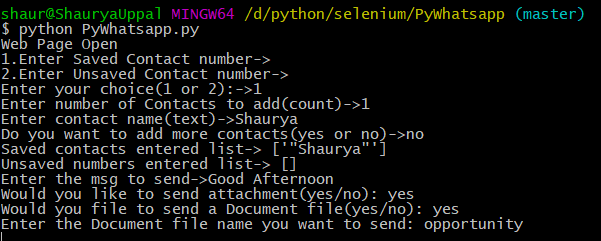
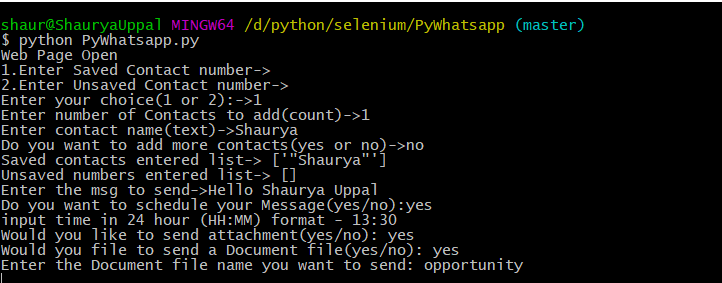
Minor Changes, MAC chromedriver, Input_Type changed

Changed region(s): [[0.0, 0.0, 1.0, 0.9585], [0.0, 0.9876, 0.03, 1.0]]

diff --git a/PyWhatsapp.py b/PyWhatsapp.py
@@ -211,6 +211,9 @@ if __name__ == "__main__":
     # Enter the message you want to send
     input_message()
 
+    # If you want to schedule messages for
+    # a particular timing choose yes
+    # If no choosed instant message would be sent
     isSchedule = input('Do you want to schedule your Message(yes/no):')
     if(isSchedule=="yes"):
         jobtime = input('input time in 24 hour (HH:MM) format - ')
@@ -230,17 +233,16 @@ if __name__ == "__main__":
     # Send message to all Contact List
     # This sender is just for testing purpose to check script working or not.
     # Scheduling works below.
-    
-    #Comment line 221 is case you don't want to test
-    #or have completed the testing part of script.
+    # sender()
+    # Uncomment line 236 is case you want to test the program
 
     if(isSchedule=="yes"):
         schedule.every().day.at(jobtime).do(sender)
     else:
         sender()
 
-    # First send Task Complete
-    print("Completed")
+    # First time message sending Task Complete
+    print("Task Completed")
 
     # Messages are scheduled to send
     # Default schedule to send attachment and greet the personal

diff --git a/README.md b/README.md
@@ -1,53 +1,76 @@
 # PyWhatsapp
 [![made-with-python](https://img.shields.io/badge/Made%20with-Python-1f425f.svg)](https://github.com/shauryauppal/PyWhatsapp)  [![License](https://img.shields.io/github/license/shauryauppal/PyWhatsapp.svg)](https://github.com/shauryauppal/PyWhatsapp/blob/master/LICENSE) [![GitHub stars](https://img.shields.io/github/stars/shauryauppal/PyWhatsapp.svg)](https://github.com/shauryauppal/PyWhatsapp/stargazers)  [![HitCount](http://hits.dwyl.io/shauryauppal/PyWhatsapp.svg)](http://hits.dwyl.io/shauryauppal/PyWhatsapp)
 
-##  Python Automation using Selenium &amp; Scheduling of messages and media
+## Python Automation using Selenium &amp; Scheduling of messages and media
 
 ## Objective:
- Pywhatsapp is used to Automate Whatsapp through Whatsapp web. We can add number of contacts whom we want to send messages or Media attachments ( like Video or Images). Selenium, Autoit and Schedule have been used one from Automation and other for Scheduling messages.
+Pywhatsapp is used to Automate Whatsapp through Whatsapp web. We can
+add number of contacts whom we want to send messages or Media
+attachments ( like Video or Images). Selenium, Autoit and Schedule have
+been used one from Automation and other for Scheduling messages.
 
-------------------
+---
 
 ## Use Case:
- We can schedule Good Morning or Good night messages with a nice Picture at a particular time to our loved ones. We can set reminders. Suppose at 12 o'clock you want to wish your friend happy birthday so schedule your messages and sleep peacefully.
+We can schedule Good Morning or Good night messages with a nice Picture
+at a particular time to our loved ones. We can set reminders. Suppose at
+12 o'clock you want to wish your friend happy birthday so schedule your
+messages and sleep peacefully.
 
----------------------
-## Install
+---
+
+## Installation
 
 >$ pip install -r requirements.txt
 
 OR
 
 >$ pip install selenium
-
+>
 >$ pip install schedule
-
+>
 >$ pip install PyAutoIt
 
-_________________
+---
 
 ### Platform: Windows
-ChromeDriver used: If this versions becomes outdated or gives problem download the latest version from <a href = "http://chromedriver.chromium.org/downloads"> Download Link </a>
+ChromeDriver used: If this versions becomes outdated or gives problem
+download the latest version from <a href =
+"http://chromedriver.chromium.org/downloads"> Download Link </a>
 
-------------------
-### For Sending Attachments you need to Install AutoIt (Optional if you only what to send messages):
+### Platform Mac
+Remove the ChromeDriverused in the repository and install <a href =
+"https://chromedriver.storage.googleapis.com/2.42/chromedriver_mac64.zip">Mac ChromeDrive Download Link</a>
 
-You may install from the links given below or Install from the folder named "Install AutoIt for Sending Attachments" in the repository.
+>Set ChromeDriver path in function whatsapp_login()
+><a href ="https://stackoverflow.com/a/44870398/6897603">Set
+>  ChromeDriver Path in MacOS</a>
 
-<a href = "https://www.autoitscript.com/site/autoit/downloads/">Official Website Download Webpage</a>
+---
+### For Sending Attachments you need to Install AutoIt (Optional if you only what to send messages) | (Only FOR WINDOWS USERS):
 
-<a href = "https://www.autoitscript.com/cgi-bin/getfile.pl?autoit3/autoit-v3-setup.exe"> Installation Link of AutoIt.exe</a>
+You may install from the links given below or Install from the folder
+named "Install AutoIt for Sending Attachments" in the repository.
 
-<a href = "https://www.autoitscript.com/cgi-bin/getfile.pl?../autoit3/scite/download/SciTE4AutoIt3.exe"> AutoitScript Editor (optional to install) </a>
+<a href = "https://www.autoitscript.com/site/autoit/downloads/">Official
+Website Download Webpage</a>
 
-Installation is pretty Simple no changes in setting are required keep everything default. Few clicks on Next and you are done.
+<a href =
+"https://www.autoitscript.com/cgi-bin/getfile.pl?autoit3/autoit-v3-setup.exe"> Installation Link of AutoIt.exe</a>
 
-------------------
+<a href =
+"https://www.autoitscript.com/cgi-bin/getfile.pl?../autoit3/scite/download/SciTE4AutoIt3.exe"> AutoitScript Editor (optional to install) </a>
+
+Installation is pretty Simple no changes in setting are required keep
+everything default. Few clicks on Next and you are done.
+
+---
 
 ## Code:
 ### input_contacts()
 
-In this functions Contacts list can be hardcoded or you can give input accordingly.(Make changes in Contact array according to you)
+In this functions Contacts list can be hardcoded or you can give input
+accordingly.(Make changes in Contact array according to you)
 
 
 ```
@@ -65,20 +88,30 @@ Enter unsaved contact number with country code(interger)->919899123456
 ### NOTE: For unsaved contacts:
 Do enter your country code then contact number.
 >Use: 919899123456
-
+>
 >Don't Use: +919899123456
 
 
 
 ### input_message()
-In this function we take input of message to send to all the Contacts list from user.
+In this function we take input of message to send to all the Contacts
+list from user.
 
 Example:
-> Enter the msg to send-> Good morning
+>Enter the msg to send-> Good morning
+
+### Enter choice to schedule message or not.
+>Do you want to schedule your Message(yes/no): yes
+>
+>input time in 24 hour (HH:MM) format - 10:10
+
+NOTE: If testing program for the first time Scheduling should be `no`
+inorder to check it is working perfectly.
 
 ### Enter choice whether to send attachments or not.
-> Would you like to send attachment(yes/no): yes
-Answer the input with yes or no.
+>Would you like to send attachment(yes/no): yes
+>
+>Answer the input with yes or no.
 
 ### send_attachments()
 NOTE: Add Photos & Videos in the Media Folder.
@@ -87,20 +120,22 @@ image_path = os.getcwd() +"\\Media\\" + 'goodmorning.jpg'
 
 Example path to send goodmorning image to your listed Contacts.
 
-* "hour" variable is used to check current Hour on the clock and according image is sent to the Contact.
-* If time is after 5am and before 11am schedule goodmorning.jpg image.
-* If time is after 9pm schedule goodnight image.
-* If time is anyother send howareyou image.
+*   "hour" variable is used to check current Hour on the clock and
+according image is sent to the Contact.
+*   If time is after 5am and before 11am schedule goodmorning.jpg image.
+*   If time is after 9pm schedule goodnight image.
+*   If time is anyother send howareyou image.
 
 You can set your own photos at a particular time feel free to do that.
 
 ### send_files()
 NOTE: Add the document in the documents folder.
-> Would you file to send a Document file(yes/no): yes
+>Would you file to send a Document file(yes/no): yes
+>
+>Enter the Document file name you want to send: opportunity
 
-> Enter the Document file name you want to send: opportunity
-
-* If the document file names are same then write the document name with extension like opportunity.pdf or opportunity.txt
+*   If the document file names are same then write the document name
+with extension like opportunity.pdf or opportunity.txt
 
 
 ### Schedule messages and Attachments
@@ -112,33 +147,42 @@ schedule.every().Friday.at("07:30").do(sender)
 
 schedule.every().day.at("08:30").do(sender)
 
-* You make change these schedule days and time according to you.
------------------
-### Input Screenshot:
-<img src="https://raw.githubusercontent.com/shauryauppal/PyWhatsapp/master/Input_Type.PNG" height=300/>
+*   You make change these schedule days and time according to you.
 
-------------
+---
+
+### Input Screenshot:
+<img
+src="https://raw.githubusercontent.com/shauryauppal/PyWhatsapp/master/Input_Type.PNG" height=300/>
+
+---
 
 ### Demo of Working (GIF)
-<img src="https://raw.githubusercontent.com/shauryauppal/PyWhatsapp/master/Media/Demo.gif" height=400 width=400/>
+<img
+src="https://raw.githubusercontent.com/shauryauppal/PyWhatsapp/master/Media/Demo.gif" height=400 width=400/>
 
-------------
+---
 
 ## Contributions
-<a href="https://github.com/shauryauppal/PyWhatsapp/issues"> Issues </a> and <a href ="https://github.com/shauryauppal/PyWhatsapp/pulls"> Pull requests </a> are most welcome.
+<a href="https://github.com/shauryauppal/PyWhatsapp/issues"> Issues </a>
+and <a href ="https://github.com/shauryauppal/PyWhatsapp/pulls"> Pull
+requests </a> are most welcome.
 
--------------------
+---
 ## License
 License
-Code and documentation are available according to the Apache License (see <a href="https://github.com/shauryauppal/PyWhatsapp/blob/master/LICENSE">LICENSE</a>).
+Code and documentation are available according to the Apache License
+(see <a
+href="https://github.com/shauryauppal/PyWhatsapp/blob/master/LICENSE">LICENSE</a>).
 
----------------------
+---
 
 ## Author:
-## <a href="https://www.linkedin.com/in/shaurya-uppal/">Shaurya Uppal</a>
-shauryauppal00111@gmail.com
+## <a href="https://www.linkedin.com/in/shaurya-uppal/">Shaurya
+Uppal</a> shauryauppal00111@gmail.com
 
-Feel free to mail me for any queries (After you have tried finding your solution).
+Feel free to mail me for any queries (After you have tried finding your
+solution).
 
 #### If this helped you in any way gift me a cup of coffee :coffee:
 [![paypal](https://www.paypalobjects.com/en_US/i/btn/btn_donateCC_LG.gif)](https://www.paypal.com/cgi-bin/webscr?cmd=_s-xclick&hosted_button_id=UXSREFS2VFSWU)
